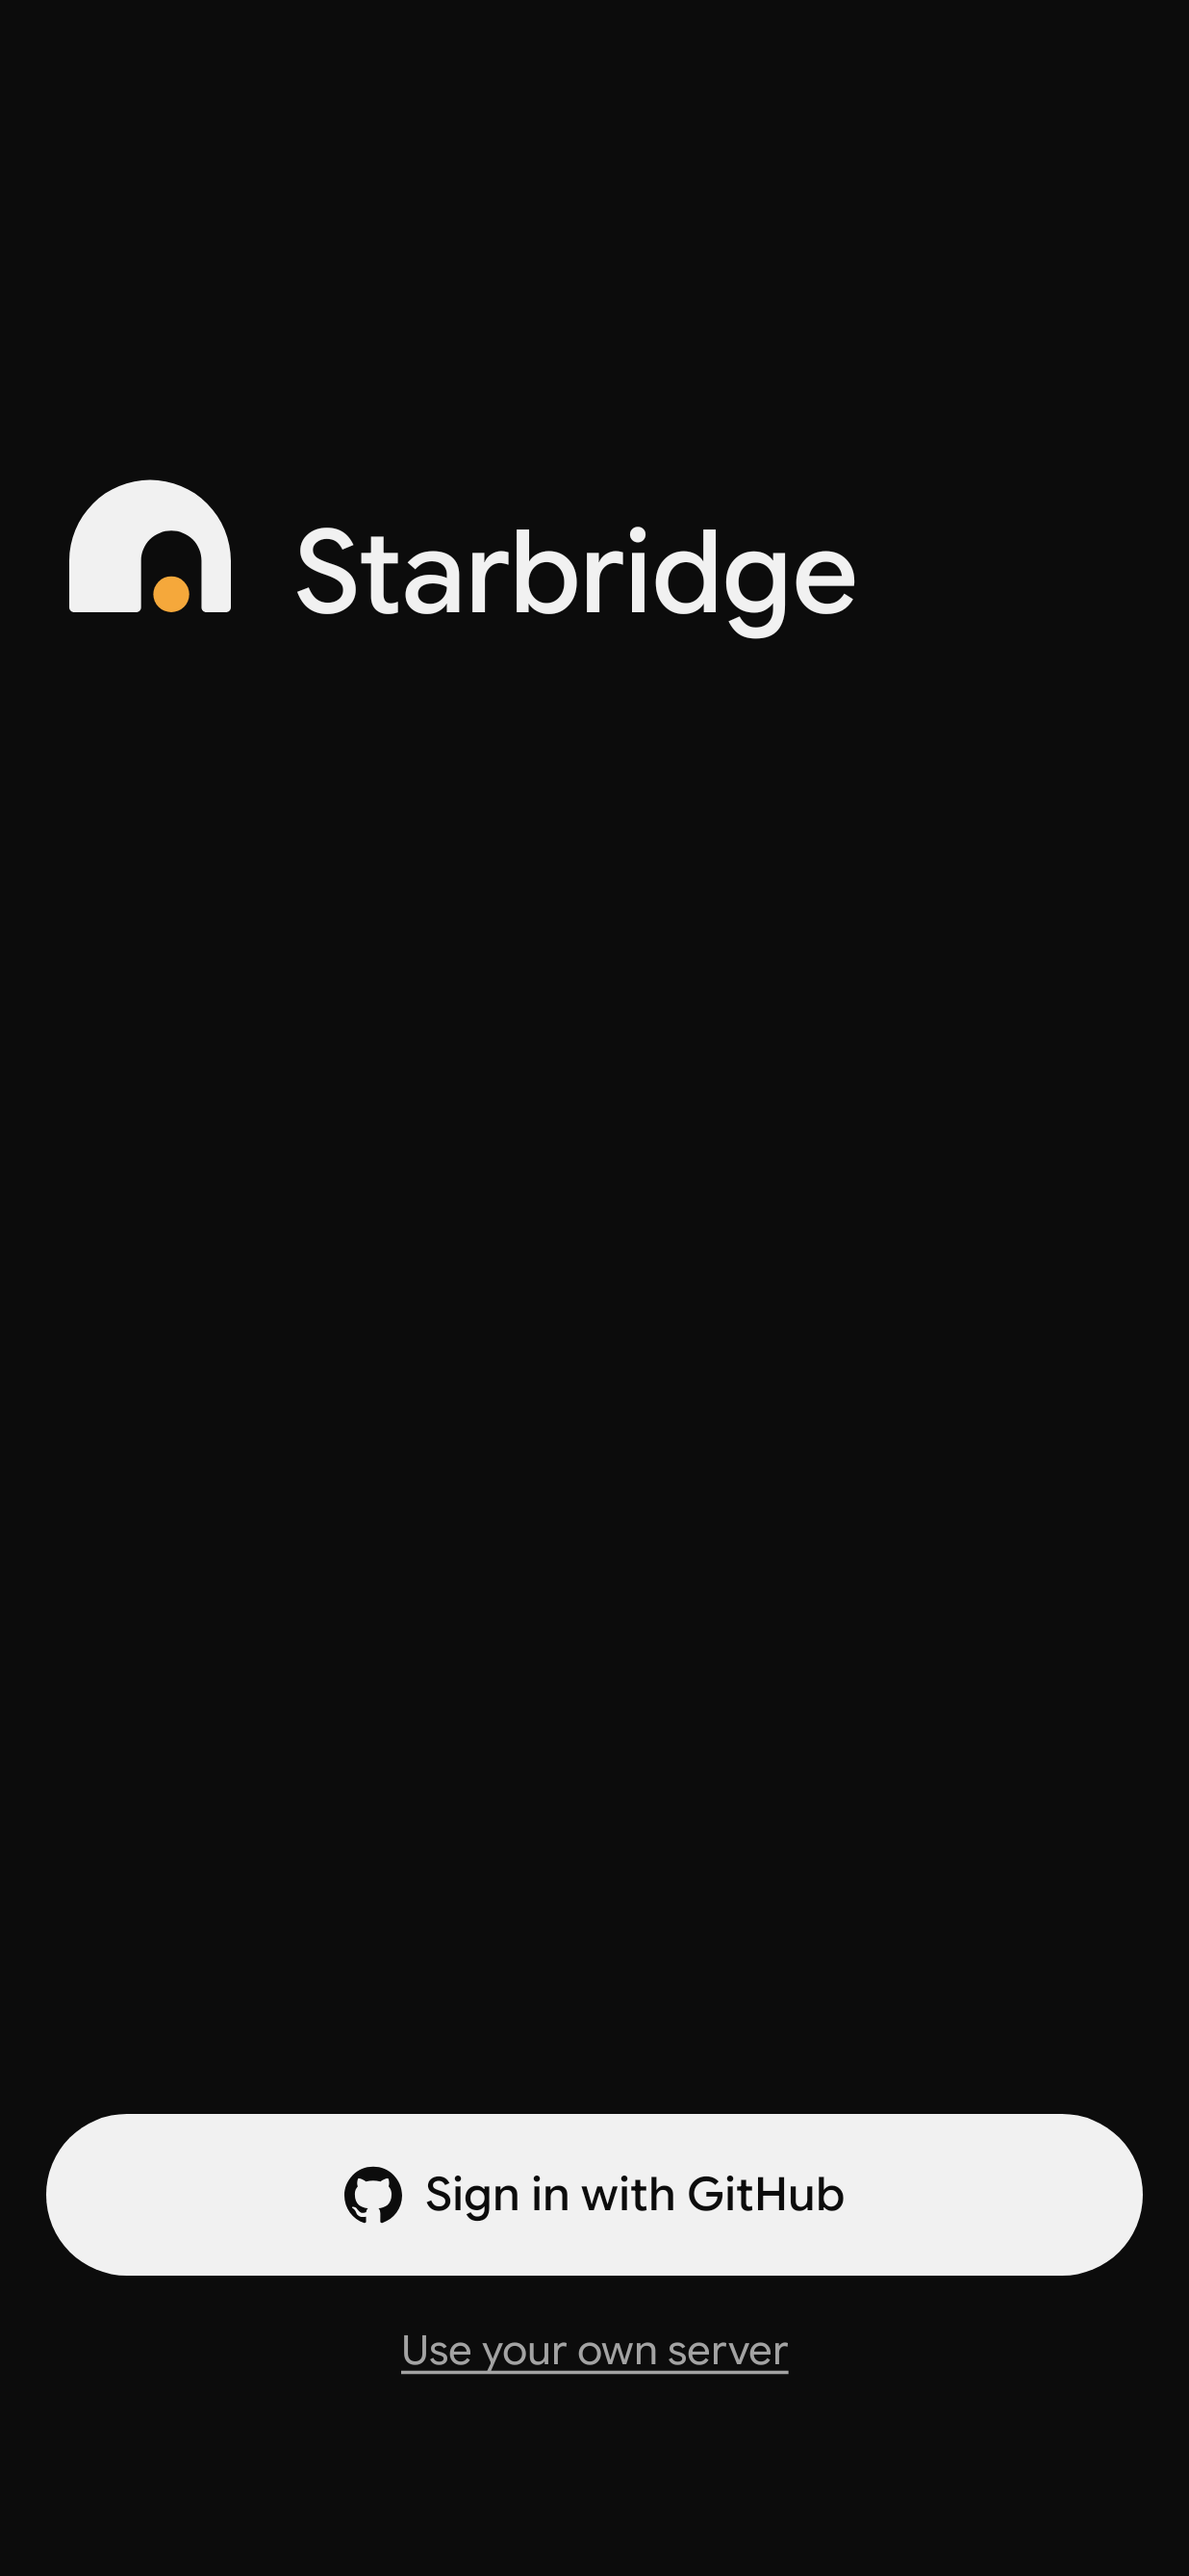
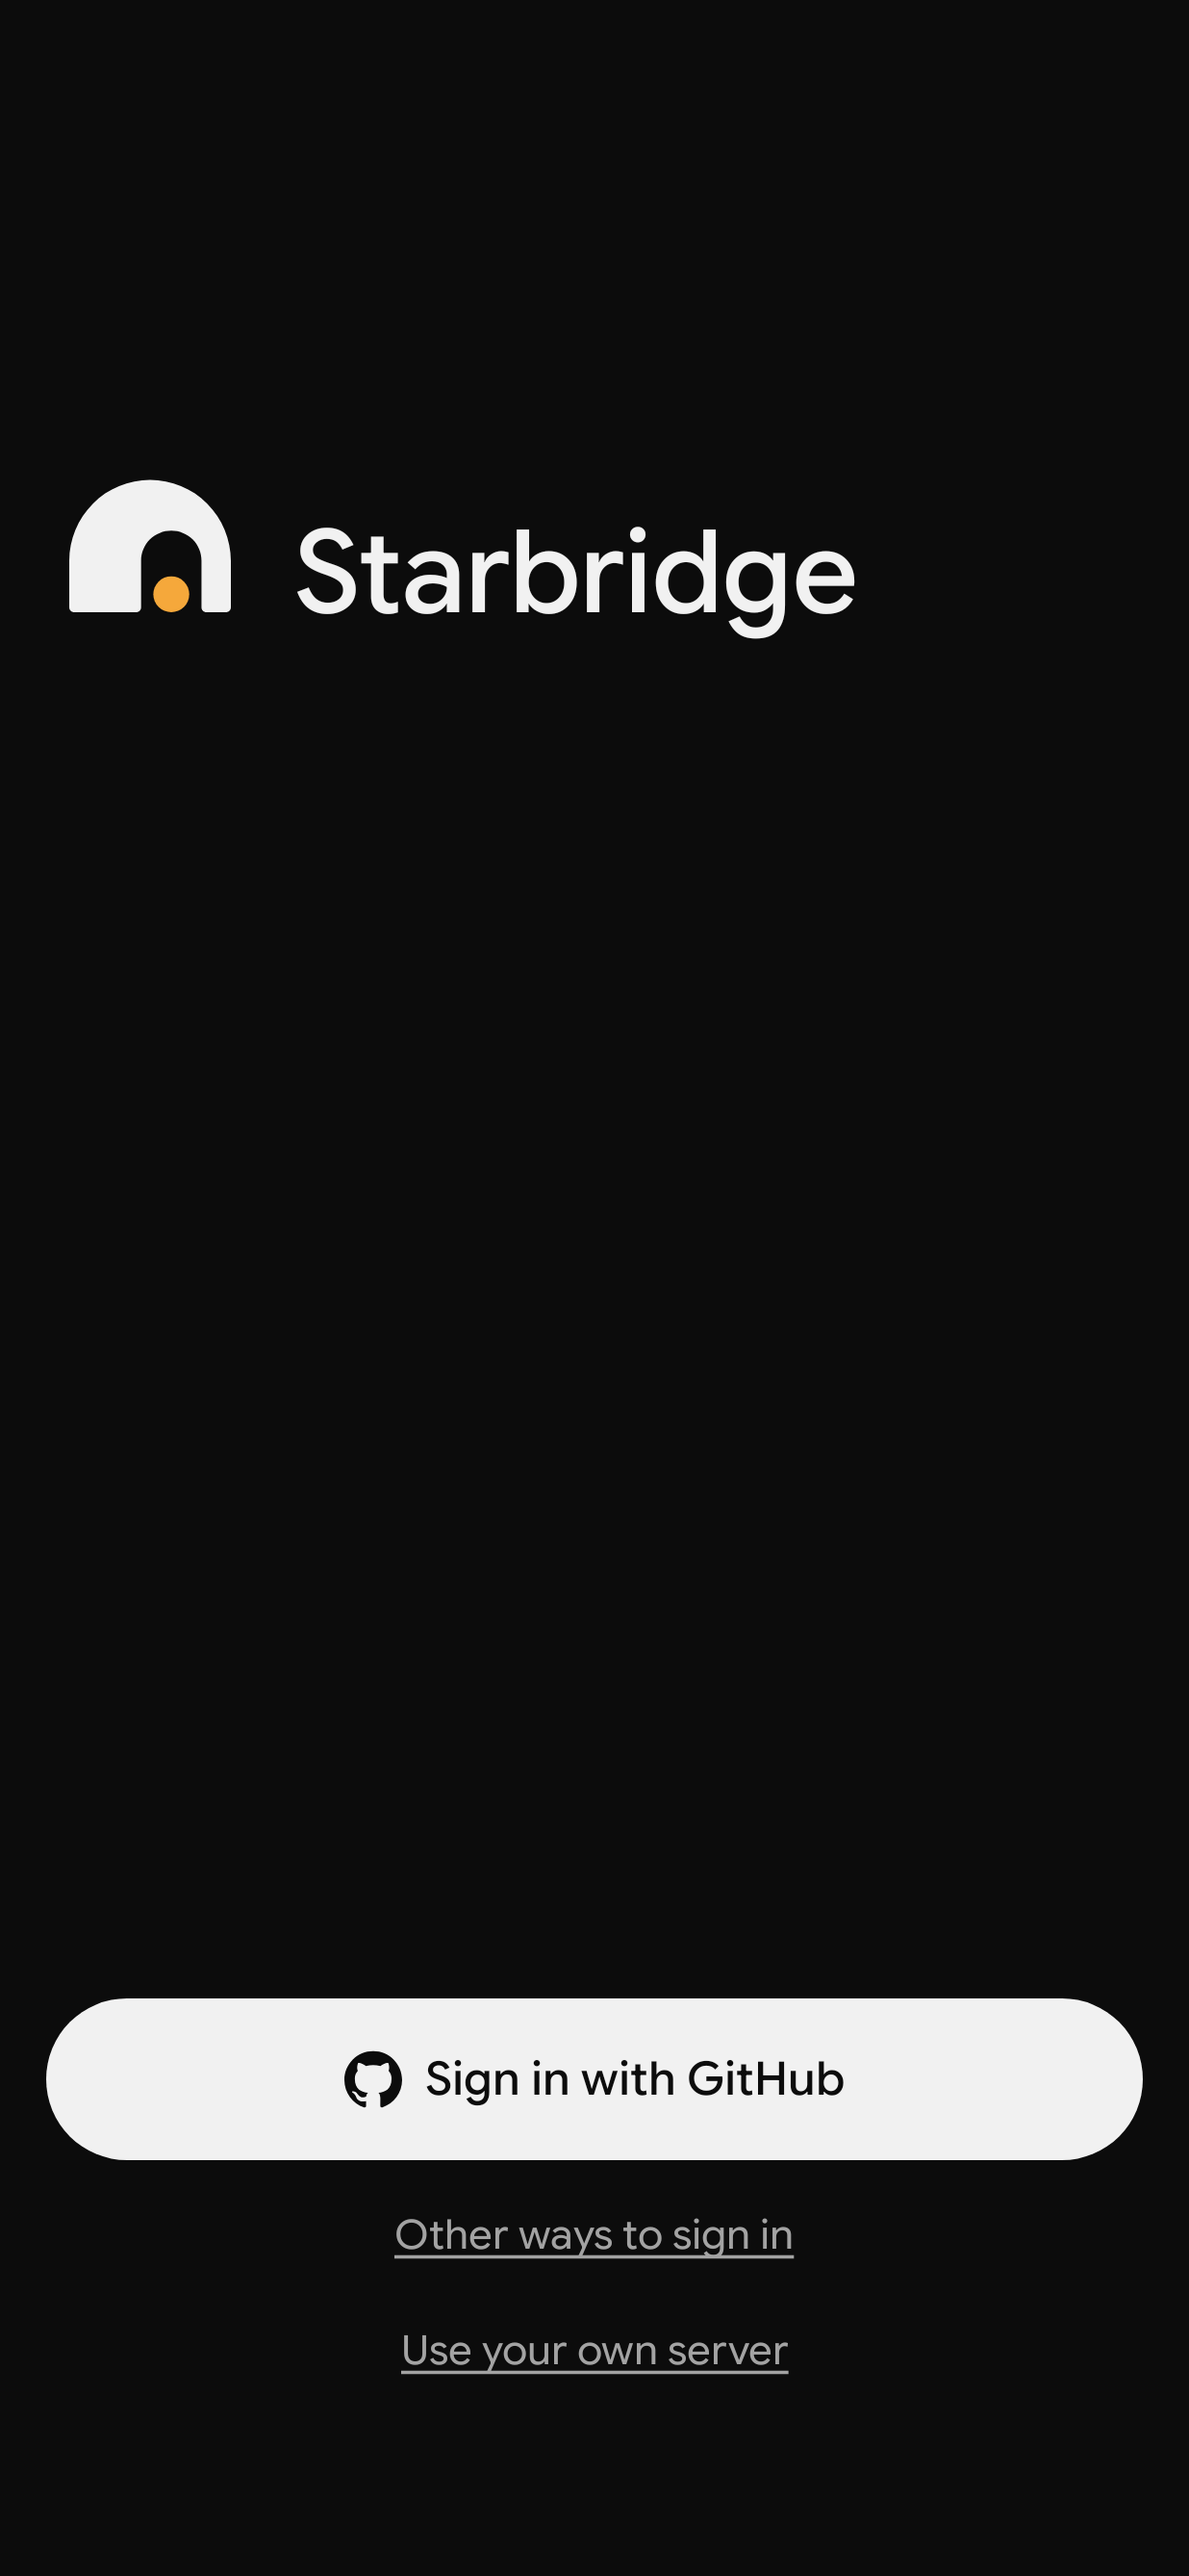
Android: Sign in with Apple behind Other ways to sign in (#1411) (#1443)
* Server: Sign in with Apple for the iPhone app, revoked on account deletion (#1411)

* Spec, protocol and deploy for Sign in with Apple (#1411)

* iOS: Sign in with Apple (#1411)

* Parity: Sign in with Apple row (#1411)

* iOS: test the nonce's hash form (#1411)

* Spec: GitHub first, Apple where it must be, no linking (#1411)

* Spec: GitHub first, Apple where it must be, no linking (#1411)

* iOS: GitHub's button first, Apple's under it at the same size (#1411)

* Apple's web sign-in for the page and the desktop app, behind Other ways to sign in (#1411)

* Parity: Sign in with Apple on the web and the desktop app (#1411)

* Android: Sign in with Apple behind Other ways to sign in (#1411)

* Android: a declined sign-in no longer names GitHub (#1411)

* Server: Apple binds an app's code to its challenge as the nonce; no codes held in memory (#1411)

* Server: shutdown waits for Apple revocations, as for queued pushes (#1411)

* Web: the landing page's header Sign in opens the sign-in screen, where Apple is (#1411)

* Server: each provider's limit for its own app sign-ins; limits on Apple's start and app callback (#1411)

Changed region(s): [[0.0307, 0.7754, 0.9838, 0.8995]]

diff --git a/android/app/src/main/kotlin/dev/starbridge/app/ui/setup/SetupScreen.kt b/android/app/src/main/kotlin/dev/starbridge/app/ui/setup/SetupScreen.kt
@@ -91,6 +91,7 @@ class SetupViewModel @Inject constructor(private val store: Store) : ViewModel()
     val keepsKeys = store.keepsKeys
     val actions = SetupActions(
         gitHub = store::gitHubSignInUrl,
+        apple = store::appleSignInUrl,
         ownerToken = store::signInWithOwnerToken,
         firstDevice = store::setUpFirstDevice,
         join = store::joinAccount,
@@ -108,6 +109,8 @@ class SetupViewModel @Inject constructor(private val store: Store) : ViewModel()
 class SetupActions(
     /** Returns the URL to open in the browser. */
     val gitHub: (server: String) -> String,
+    /** Apple's web sign-in on starbridge.run; the URL to open in the browser. */
+    val apple: () -> String,
     val ownerToken: (server: String, token: String) -> Unit,
     val firstDevice: () -> Unit,
     val join: () -> Unit,
@@ -204,6 +207,7 @@ private fun SignIn(server: String, busy: Boolean, actions: SetupActions, openUrl
     var selfHosted by rememberSaveable { mutableStateOf(server != BuildConfig.DEFAULT_SERVER) }
     var url by rememberSaveable { mutableStateOf(server) }
     var token by rememberSaveable { mutableStateOf("") }
+    var others by rememberSaveable { mutableStateOf(false) }
     Step(
         modifier,
         top = {
@@ -237,6 +241,16 @@ private fun SignIn(server: String, busy: Boolean, actions: SetupActions, openUrl
             if (!selfHosted) {
                 Primary("Sign in with GitHub", busy, icon = { Icon(painterResource(R.drawable.ic_github), contentDescription = null, modifier = Modifier.size(20.dp)) }) {
                     openUrl(actions.gitHub(BuildConfig.DEFAULT_SERVER))
+                }
+                // Apple's sign-in sits behind a link: GitHub is the main way, and an account made
+                // with Apple on the iPhone signs in here too (spec/sign-in.md).
+                if (others) {
+                    OutlinedButton(onClick = { openUrl(actions.apple()) }, enabled = !busy, modifier = Modifier.fillMaxWidth().heightIn(min = 56.dp)) {
+                        Icon(painterResource(R.drawable.ic_apple), contentDescription = null, modifier = Modifier.size(20.dp))
+                        Text("Sign in with Apple", style = StarbridgeTheme.type.action, modifier = Modifier.padding(start = Spacing.s2))
+                    }
+                } else {
+                    Link("Other ways to sign in") { others = true }
                 }
                 Link("Use your own server") { selfHosted = true }
             } else {

diff --git a/android/app/src/test/kotlin/dev/starbridge/app/ScreenshotTest.kt b/android/app/src/test/kotlin/dev/starbridge/app/ScreenshotTest.kt
@@ -100,7 +100,7 @@ class ScreenshotTest(private val dark: Boolean) {
     private val decisionActions = DecisionActions({ _, _, _ -> }, {})
     private val deviceActions = DeviceActions({}, {}, {}, {}, {})
     private val settingsActions = SettingsActions({}, {}, {}, {}, {}, {})
-    private val setupActions = SetupActions({ "" }, { _, _ -> }, {}, {}, {}, {}, {}, {}, {}, {})
+    private val setupActions = SetupActions({ "" }, { "" }, { _, _ -> }, {}, {}, {}, {}, {}, {}, {}, {})
 
     private fun capture(name: String, before: () -> Unit = {}, content: @Composable () -> Unit) {
         compose.setContent {
@@ -387,6 +387,10 @@ class ScreenshotTest(private val dark: Boolean) {
     @Test fun updateRequiredRelease() = capture("update-required-release") { Phone(null, 0) { UpdateRequired("1.2.0", "1.0.3", Installer.Other, update = {}) } }
 
     @Test fun setupSignIn() = capture("setup-sign-in") { Phone(null, 0) { SetupScreen(Phase.SignedOut, "https://starbridge.run", false, setupActions, {}) } }
+
+    @Test fun setupSignInOthers() = capture("setup-sign-in-others", before = { compose.onNodeWithText("Other ways to sign in").performClick() }) {
+        Phone(null, 0) { SetupScreen(Phase.SignedOut, "https://starbridge.run", false, setupActions, {}) }
+    }
 
     @Test fun setupFirstDevice() = capture("setup-first-device") { Phone(null, 0) { SetupScreen(Phase.NoDevice(accountExists = false), "https://starbridge.run", false, setupActions, {}) } }
 

diff --git a/android/app/src/main/kotlin/dev/starbridge/app/data/SignIn.kt b/android/app/src/main/kotlin/dev/starbridge/app/data/SignIn.kt
@@ -6,9 +6,9 @@ import java.security.MessageDigest
 import java.security.SecureRandom
 
 /**
- * GitHub sign-in for the app, with PKCE (RFC 7636, PROTOCOL.md "Auth"). GitHub binds its code to
- * the challenge, so whoever catches the redirect, trading the code for a session needs the
- * verifier, which never leaves this phone.
+ * GitHub or Apple sign-in for the app, with PKCE (RFC 7636, PROTOCOL.md "Auth"). GitHub binds its
+ * code to the challenge, and the server binds Apple's, so whoever catches the redirect, trading the
+ * code for a session needs the verifier, which never leaves this phone.
  */
 object SignIn {
     /** 32 random bytes, base64url without padding: 43 characters. */
@@ -16,7 +16,9 @@ object SignIn {
 
     fun challenge(verifier: String): String = toB64(MessageDigest.getInstance("SHA-256").digest(verifier.toByteArray(Charsets.US_ASCII)))
 
-    fun url(server: String, verifier: String): String = "$server/v1/auth/github?app=1&challenge=${challenge(verifier)}"
+    /** Where the sign-in starts: `github`, or `apple` for Apple's web sign-in (#1411). */
+    fun url(server: String, verifier: String, provider: String = "github"): String =
+        "$server/v1/auth/$provider?app=1&challenge=${challenge(verifier)}"
 
     /** What ends a sign-in. */
     sealed interface Redirect {

diff --git a/android/app/src/main/kotlin/dev/starbridge/app/data/ServerStore.kt b/android/app/src/main/kotlin/dev/starbridge/app/data/ServerStore.kt
@@ -431,6 +431,12 @@ class ServerStore(
         return SignIn.url(saved.server, verifier)
     }
 
+    override fun appleSignInUrl(): String {
+        val verifier = SignIn.newVerifier()
+        persist(saved.copy(server = defaultServer), secrets.copy(signInVerifier = verifier))
+        return SignIn.url(saved.server, verifier, "apple")
+    }
+
     /**
      * Only for the sign-in this phone started: without its verifier the code is worthless, and a
      * redirect with no sign-in pending is ignored. The code works once, whatever the outcome.
@@ -443,7 +449,7 @@ class ServerStore(
         val challenge = SignIn.challenge(verifier)
         val link = when (val r = SignIn.redirect(redirect)) {
             is SignIn.Redirect.Code -> r.takeIf { it.state == challenge } ?: return@run
-            is SignIn.Redirect.Denied -> if (r.state == challenge) throw IllegalStateException("GitHub sign-in didn't finish. Sign in again.") else return@run
+            is SignIn.Redirect.Denied -> if (r.state == challenge) throw IllegalStateException("Sign-in didn't finish. Sign in again.") else return@run
             null -> return@run
         }
         persist(newSecrets = secrets.copy(signInVerifier = null))

diff --git a/android/app/src/test/kotlin/dev/starbridge/app/SignInTest.kt b/android/app/src/test/kotlin/dev/starbridge/app/SignInTest.kt
@@ -14,6 +14,13 @@ class SignInTest {
         assertEquals(Redirect.Code("9f2c", "Xy_z"), SignIn.redirect("https://starbridge.run/v1/auth/github/callback/app?code=9f2c&state=Xy_z"))
         assertEquals(Redirect.Denied("Xy_z"), SignIn.redirect("https://starbridge.run/v1/auth/github/callback/app?error=access_denied&state=Xy_z"))
         assertEquals(Redirect.Denied("Xy_z"), SignIn.redirect("starbridge://auth?error=access_denied&state=Xy_z"))
+        // Apple's codes carry dots (#1411).
+        assertEquals(Redirect.Code("c1f.0.ab.Xy-z", "Xy_z"), SignIn.redirect("https://starbridge.run/app/auth?code=c1f.0.ab.Xy-z&state=Xy_z"))
+    }
+
+    @Test fun startsAppleWhereGitHubStarts() {
+        val challenge = SignIn.challenge("v")
+        assertEquals("https://starbridge.run/v1/auth/apple?app=1&challenge=$challenge", SignIn.url("https://starbridge.run", "v", "apple"))
     }
 
     @Test fun ignoresOtherLinks() {

diff --git a/android/app/src/test/kotlin/dev/starbridge/app/LayoutAuditTest.kt b/android/app/src/test/kotlin/dev/starbridge/app/LayoutAuditTest.kt
@@ -176,7 +176,7 @@ class LayoutAuditTest(private val shot: String, private val look: Look) {
     private val promptActions = PromptActions({ _, _, _, _ -> })
     private val deviceActions = DeviceActions({}, {}, {}, {}, {})
     private val settingsActions = SettingsActions({}, {}, {}, {}, {}, {})
-    private val setupActions = SetupActions({ "" }, { _, _ -> }, {}, {}, {}, {}, {}, {}, {}, {})
+    private val setupActions = SetupActions({ "" }, { "" }, { _, _ -> }, {}, {}, {}, {}, {}, {}, {}, {})
 
     private class Shot(val tab: Tab?, val bar: Boolean = true, val before: () -> Unit = {}, val content: @Composable () -> Unit)
 

diff --git a/android/app/src/test/kotlin/dev/starbridge/app/RecoverDeleteTest.kt b/android/app/src/test/kotlin/dev/starbridge/app/RecoverDeleteTest.kt
@@ -20,7 +20,7 @@ class RecoverDeleteTest {
     @get:Rule val compose = createComposeRule()
 
     @Test fun deleteAccountFromTheRecoveryKeyView() {
-        val actions = SetupActions({ "" }, { _, _ -> }, {}, {}, {}, {}, {}, {}, {}, {})
+        val actions = SetupActions({ "" }, { "" }, { _, _ -> }, {}, {}, {}, {}, {}, {}, {}, {})
         compose.setContent { StarbridgeTheme { SetupScreen(Phase.NoDevice(accountExists = true), "https://starbridge.run", false, actions, {}) } }
         compose.onNodeWithText("Use the recovery key").performClick()
         compose.onNodeWithText("Delete account").performClick()

diff --git a/android/app/src/main/kotlin/dev/starbridge/app/data/Store.kt b/android/app/src/main/kotlin/dev/starbridge/app/data/Store.kt
@@ -53,6 +53,9 @@ interface Store {
 
     /** The URL that starts GitHub sign-in; it ends at a link [SignIn.redirect] reads. */
     fun gitHubSignInUrl(server: String): String
+
+    /** Apple's web sign-in on starbridge.run, the only server holding Apple's keys (#1411). */
+    fun appleSignInUrl(): String
     /** The redirect that ends GitHub sign-in. */
     fun receiveSignIn(redirect: String)
     fun signInWithOwnerToken(server: String, token: String)

diff --git a/spec/parity.md b/spec/parity.md
@@ -47,7 +47,7 @@ Android's and iOS's tests read, so a change to one fails the others until they f
 | Keyboard shortcuts (J K 1-4 A D /) | yes (J, K and / at any width, #1432; 1-4, A, D from 1100 px) | no (only Enter to send, Esc in Find) | yes (as web) | not yet |
 | Sound | yes (off by default, only while a page is open) | yes (system notification channel sound) | yes (macOS default sound; Basso on "Answer not sent"; web Sound row hidden) | not yet |
 | Recover with the recovery key (revokes every other member) | yes | yes | yes (as web) | yes (#1116) |
-| Sign in with Apple (no name or email asked) | yes (#1411: under Other ways to sign in) | not yet (#1411) | yes (as web, in the browser) | yes (#1411: under GitHub's, the same size) |
+| Sign in with Apple (no name or email asked) | yes (#1411: under Other ways to sign in) | yes (#1411: under Other ways to sign in) | yes (as web, in the browser) | yes (#1411: under GitHub's, the same size) |
 | Delete account (Settings and the join screen, its recovery-key view included, typed confirmation) | yes (#1104, #1117) | yes (#1104, #1117, #1166) | yes (as web) | yes (#1141, #1195, #1233: Settings and the join screen, its recovery-key view included) |
 
 Only on desktop: the menu bar light, Settings → App (the Dock or menu bar choice, Open Starbridge at login; #1449), ⌃⌥S, notifications while no browser runs, and the app's updates (the rail's button and Settings → Updates, #1398).
